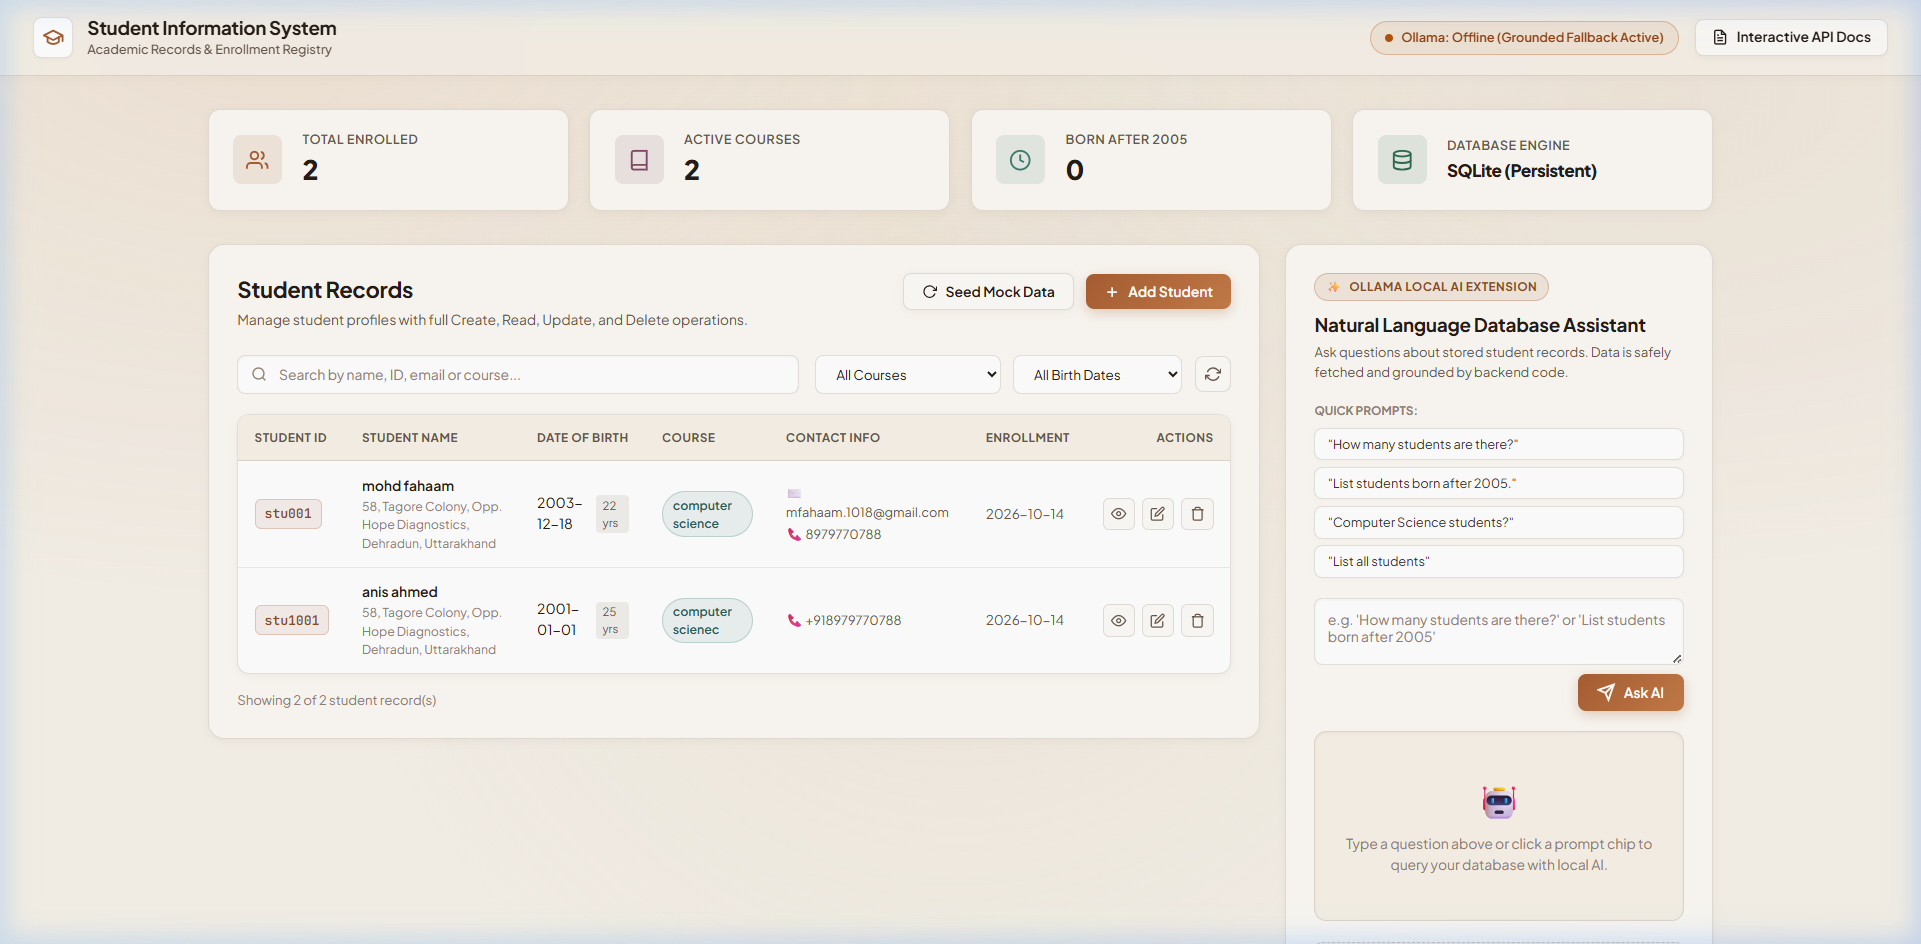
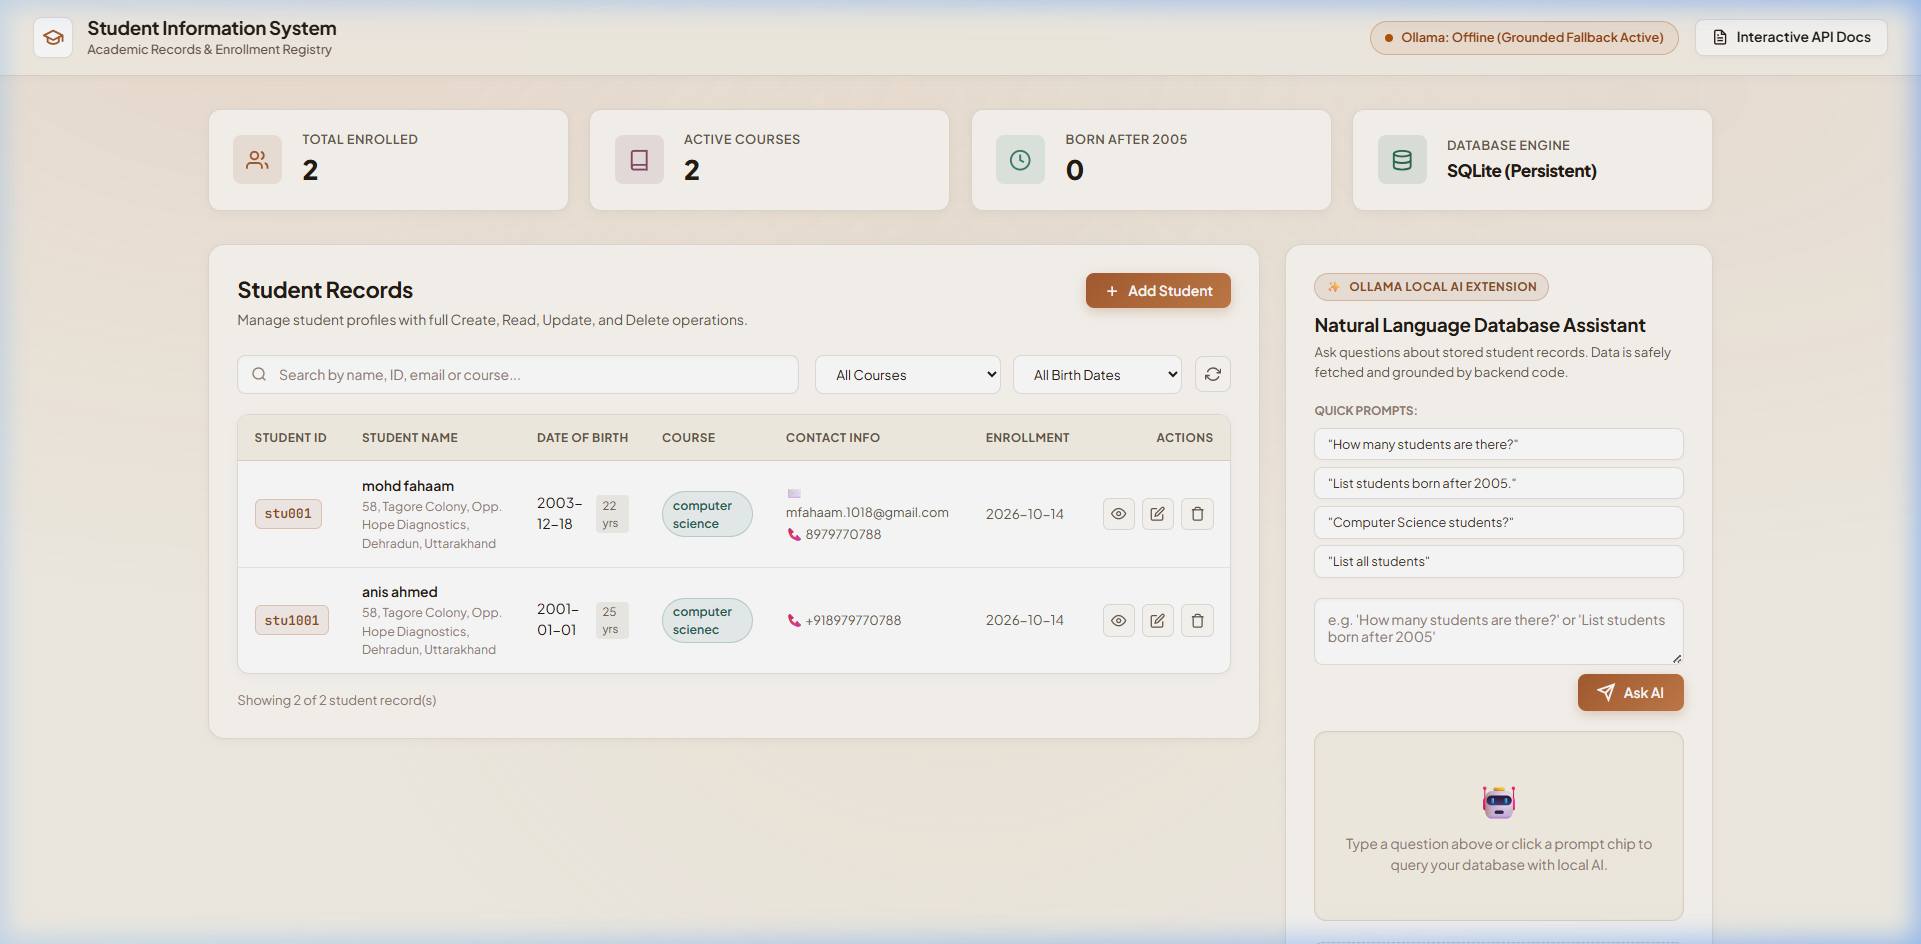
chore: remove seed mock data button and logic from UI

Changed region(s): [[0.7808, 0.0, 1.0, 1.0], [0.5934, 0.3072, 0.6247, 0.3379], [0.4997, 0.3072, 0.531, 0.3379]]

diff --git a/app/static/app.js b/app/static/app.js
@@ -12,7 +12,6 @@ const searchClearBtn = document.getElementById("search-clear-btn");
 const courseFilter = document.getElementById("course-filter");
 const ageFilter = document.getElementById("age-filter");
 const refreshBtn = document.getElementById("refresh-table-btn");
-const seedBtn = document.getElementById("seed-btn");
 const addStudentBtn = document.getElementById("add-student-btn");
 
 // Stat counters
@@ -87,9 +86,6 @@ function setupEventListeners() {
   deleteConfirmBtn.addEventListener("click", confirmDeleteStudent);
 
   studentForm.addEventListener("submit", handleStudentFormSubmit);
-
-  // Seed sample data
-  seedBtn.addEventListener("click", handleSeedData);
 
   // AI Assistant form
   aiForm.addEventListener("submit", handleAISubmit);
@@ -192,7 +188,7 @@ function renderTable(students) {
       <tr>
         <td colspan="7" class="empty-cell">
           <p style="font-size: 1rem; font-weight: 600; margin-bottom: 0.3rem;">No student records found</p>
-          <p style="font-size: 0.8rem; color: var(--text-dim);">Try adjusting your search filters or click "Seed Mock Data".</p>
+          <p style="font-size: 0.8rem; color: var(--text-dim);">Try adjusting your search filters or click "Add Student".</p>
         </td>
       </tr>
     `;
@@ -421,41 +417,6 @@ async function confirmDeleteStudent() {
   }
 }
 
-// --- Seed Data Action ---
-async function handleSeedData() {
-  seedBtn.disabled = true;
-  seedBtn.textContent = "Seeding...";
-  try {
-    const samples = [
-      { name: "Aarav Sharma", date_of_birth: "2004-05-14", email: "aarav.sharma@example.edu", phone: "+91 98765 43210", course: "Computer Science", address: "42 MG Road, Bengaluru" },
-      { name: "Diya Patel", date_of_birth: "2006-11-22", email: "diya.patel@example.edu", phone: "+91 98123 45678", course: "Data Science", address: "15 Park Street, Ahmedabad" },
-      { name: "Rohan Verma", date_of_birth: "2003-03-10", email: "rohan.verma@example.edu", phone: "+91 97234 56789", course: "Mechanical Engineering", address: "88 Civil Lines, Delhi" },
-      { name: "Ananya Iyer", date_of_birth: "2007-01-18", email: "ananya.iyer@example.edu", phone: "+91 96345 67890", course: "Computer Science", address: "12 Anna Salai, Chennai" },
-      { name: "Sneha Kulkarni", date_of_birth: "2006-04-15", email: "sneha.k@example.edu", phone: "+91 94567 89012", course: "Data Science", address: "29 FC Road, Pune" },
-    ];
-
-    let createdCount = 0;
-    for (const item of samples) {
-      const res = await fetch(`${API_BASE}/students`, {
-        method: "POST",
-        headers: { "Content-Type": "application/json" },
-        body: JSON.stringify(item),
-      });
-      if (res.ok) createdCount++;
-    }
-
-    showToast(`Seeded ${createdCount} new student records!`, "success");
-    loadStudents();
-  } catch (err) {
-    showToast(`Error seeding data: ${err.message}`, "error");
-  } finally {
-    seedBtn.disabled = false;
-    seedBtn.innerHTML = `
-      <svg width="15" height="15" viewBox="0 0 24 24" fill="none" stroke="currentColor" stroke-width="2"><polyline points="23 4 23 10 17 10"></polyline><path d="M20.49 15a9 9 0 1 1-2.12-9.36L23 10"></path></svg>
-      Seed Mock Data
-    `;
-  }
-}
 
 // --- AI Query Form Submission ---
 async function handleAISubmit(e) {

diff --git a/app/static/index.html b/app/static/index.html
@@ -93,10 +93,6 @@
               <p class="section-desc">Manage student profiles with full Create, Read, Update, and Delete operations.</p>
             </div>
             <div class="header-buttons">
-              <button class="btn btn-secondary" id="seed-btn" title="Add sample mock students">
-                <svg width="15" height="15" viewBox="0 0 24 24" fill="none" stroke="currentColor" stroke-width="2"><polyline points="23 4 23 10 17 10"></polyline><path d="M20.49 15a9 9 0 1 1-2.12-9.36L23 10"></path></svg>
-                Seed Mock Data
-              </button>
               <button class="btn btn-primary" id="add-student-btn">
                 <svg width="16" height="16" viewBox="0 0 24 24" fill="none" stroke="currentColor" stroke-width="2.5"><line x1="12" y1="5" x2="12" y2="19"></line><line x1="5" y1="12" x2="19" y2="12"></line></svg>
                 Add Student
